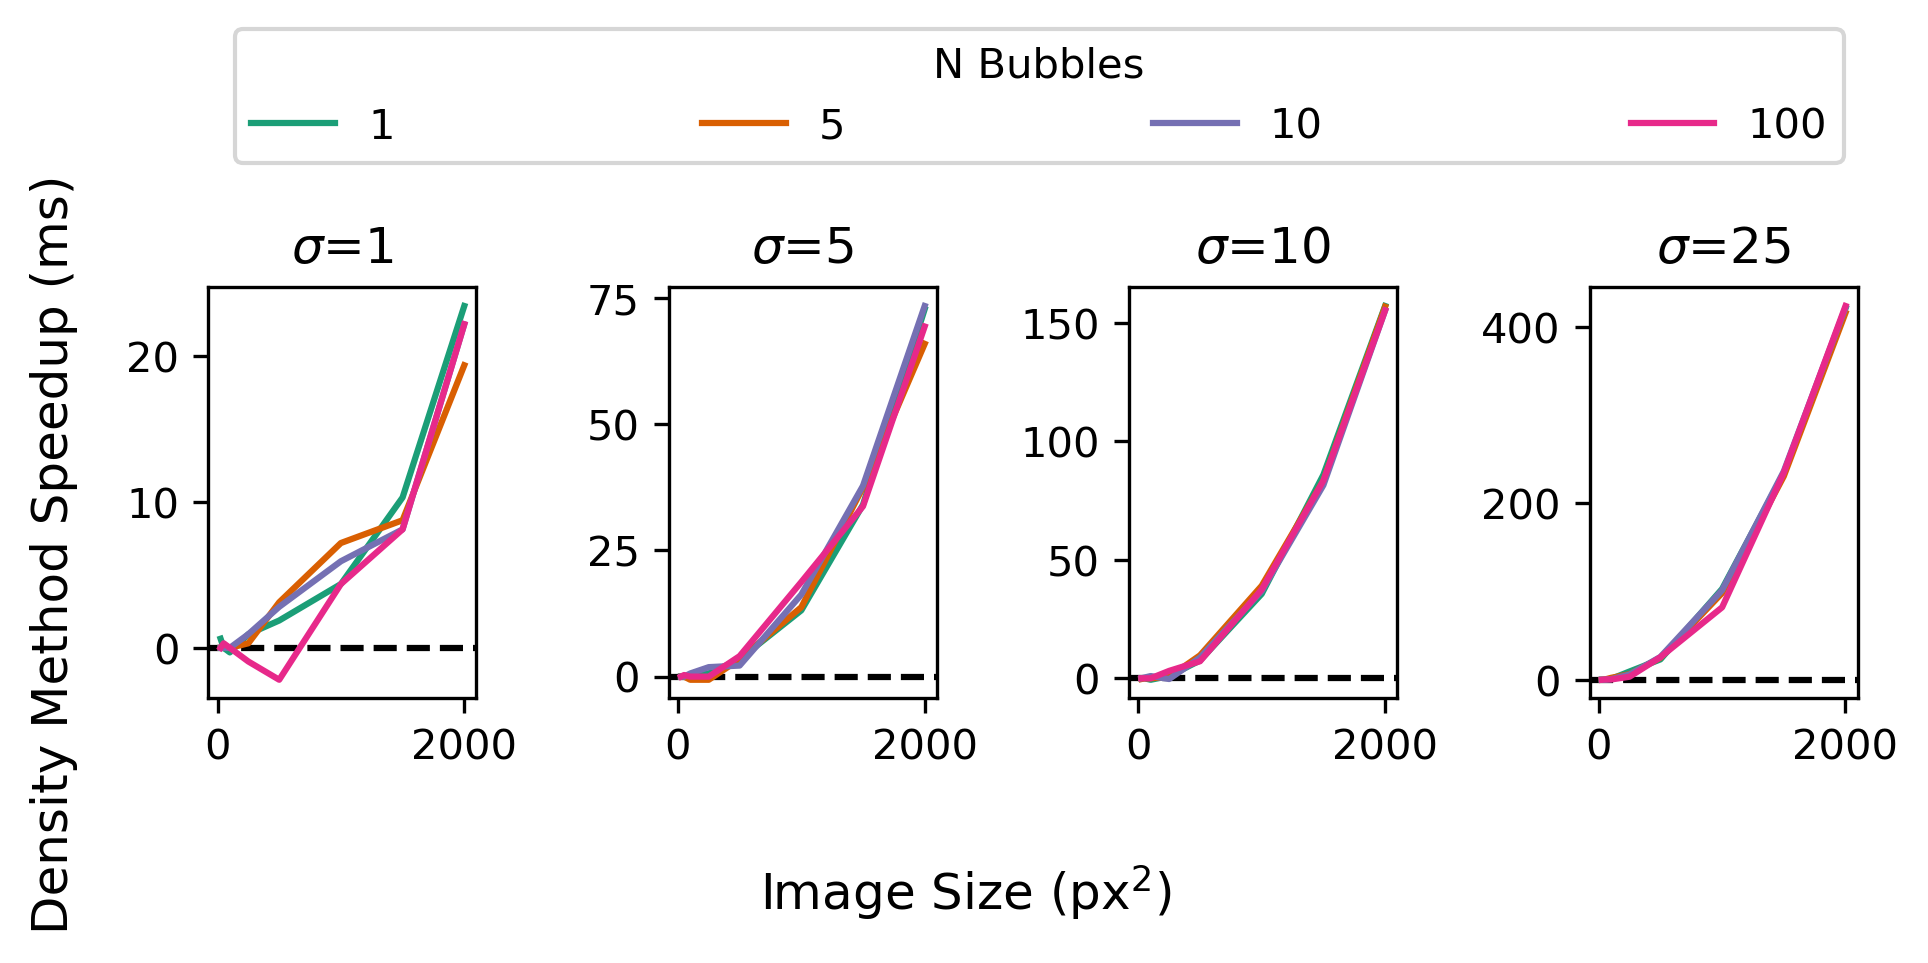
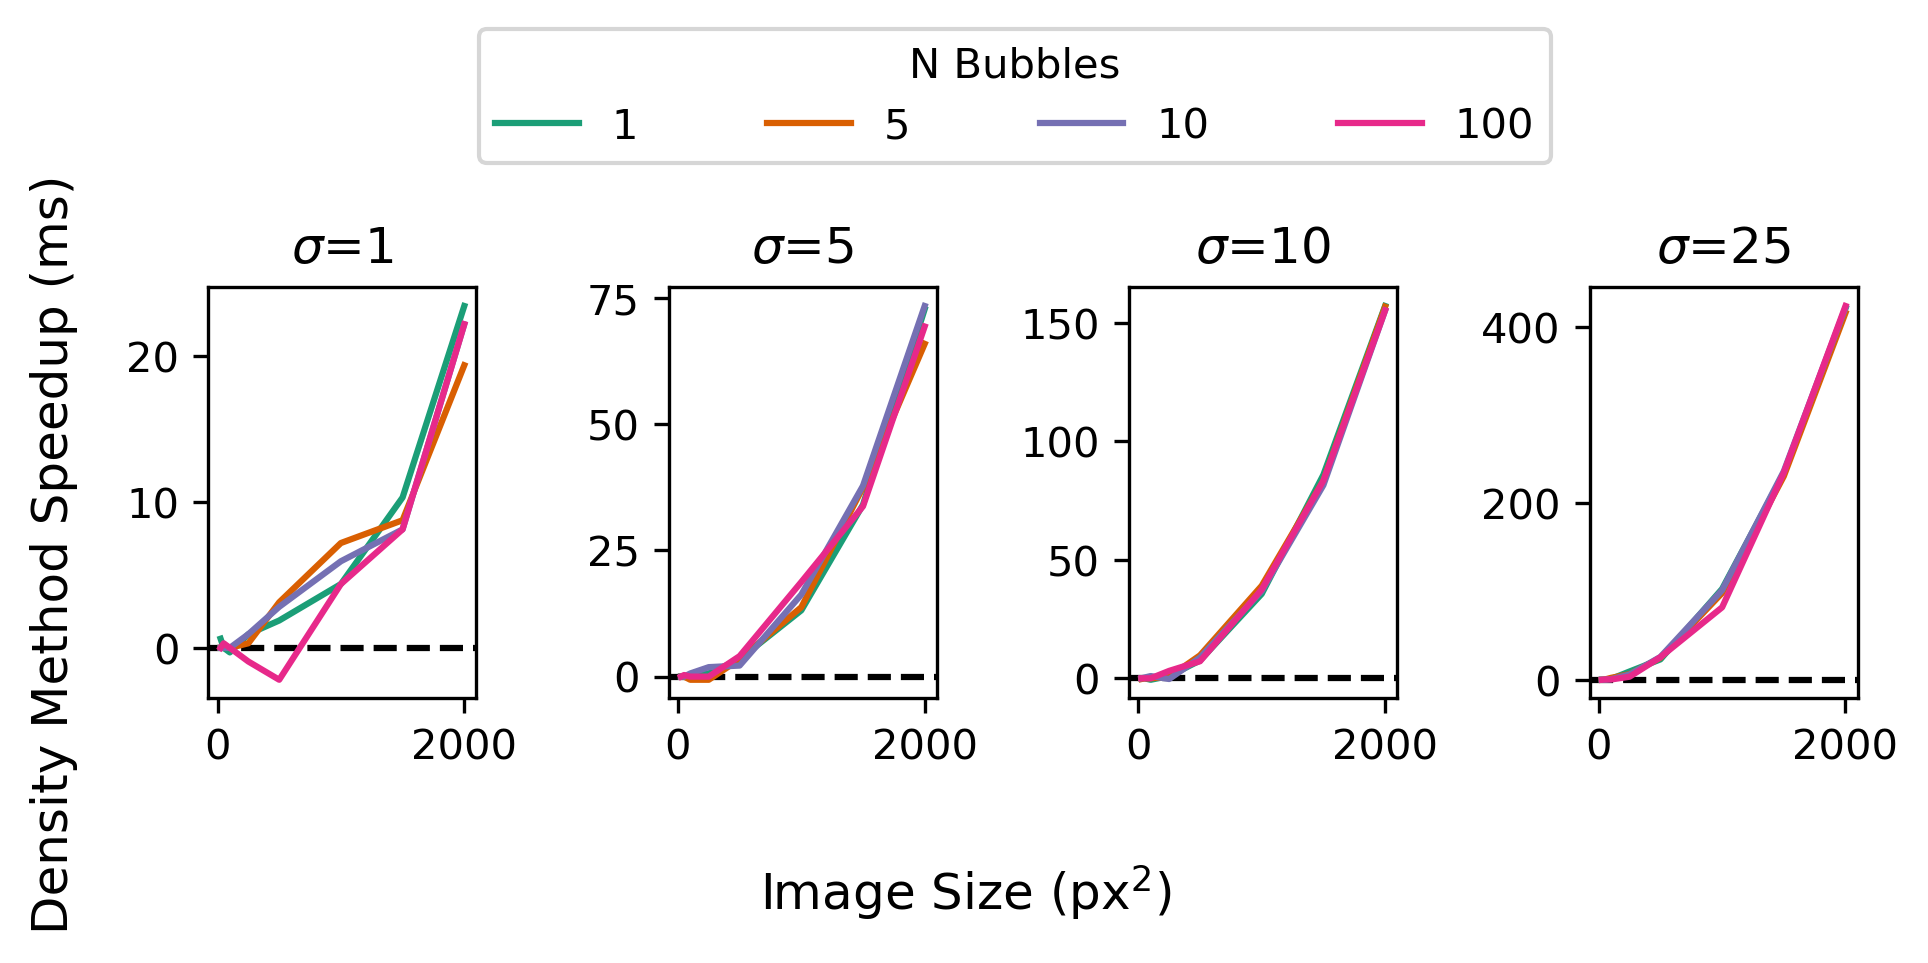
smaller legend

diff --git a/examples.py b/examples.py
@@ -168,7 +168,7 @@ for sg, sigma in enumerate(sigmas):
 lines = [mpl.lines.Line2D([0], [0], color=cmap(nb)) for nb in range(len(n_bubbles))]
 
 # axs[len(axs)-1].legend(lines, n_bubbles, title='N Bubbles', bbox_to_anchor=(1.05, 1), borderaxespad=0)
-fig.legend(lines, n_bubbles, title='N Bubbles', bbox_to_anchor=(0.125, 1.02, 0.825, 0.2), loc='lower left', mode='expand', borderaxespad=0, ncol=len(n_bubbles))
+fig.legend(lines, n_bubbles, title='N Bubbles', bbox_to_anchor=(0.25, 1.02, 0.55, 0.2), loc='lower left', mode='expand', borderaxespad=0, ncol=len(n_bubbles))
 
 fig.supxlabel('Image Size (px$^2$)')
 fig.supylabel('Density Method Speedup (ms)')
